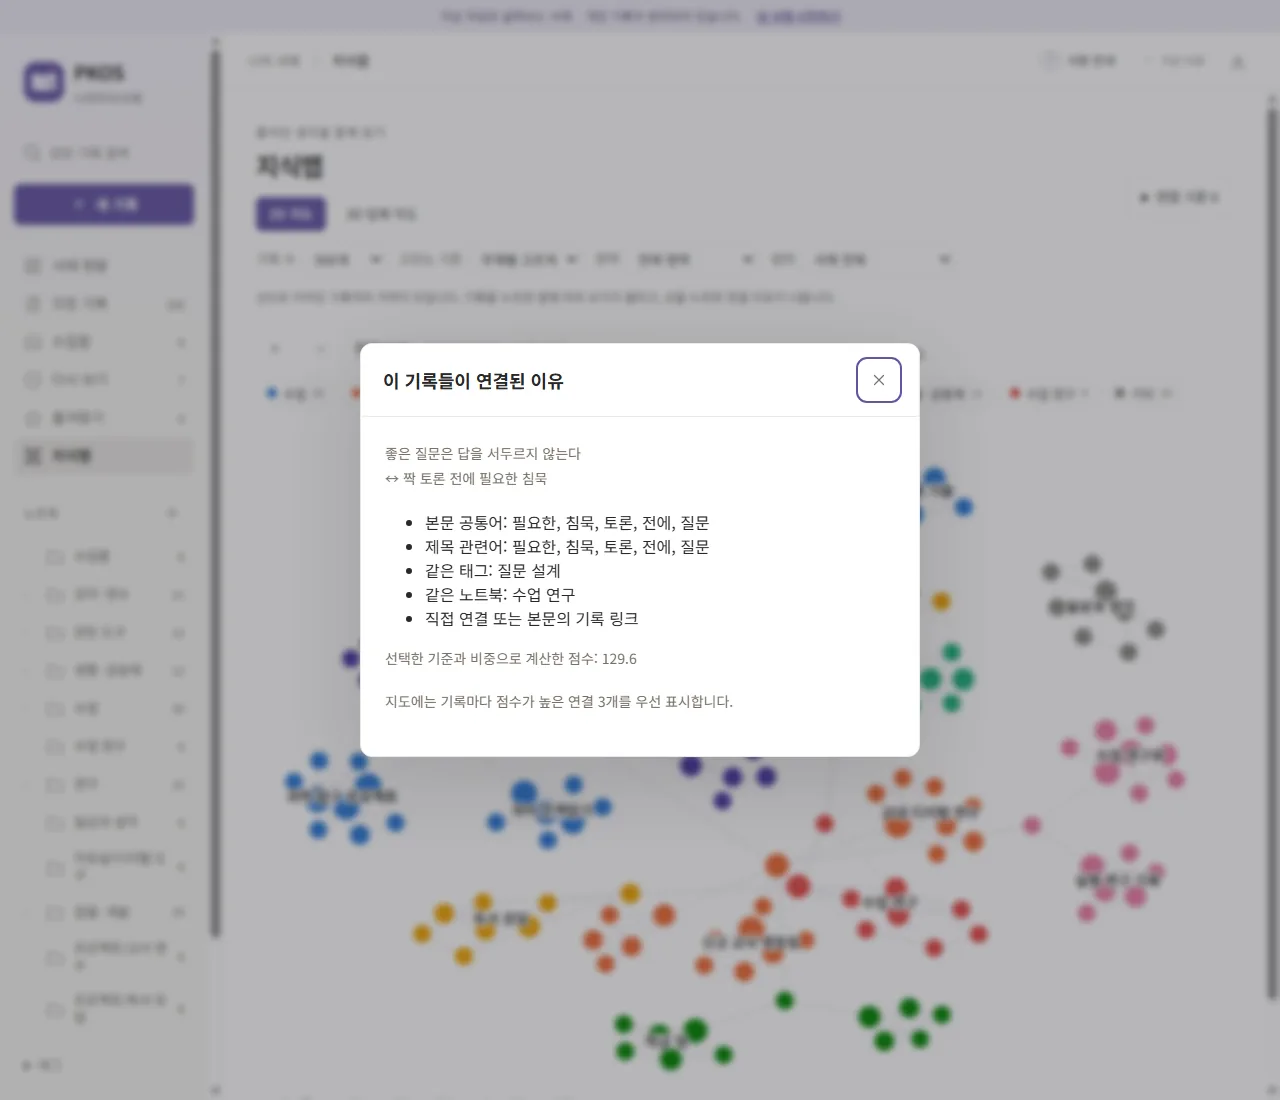
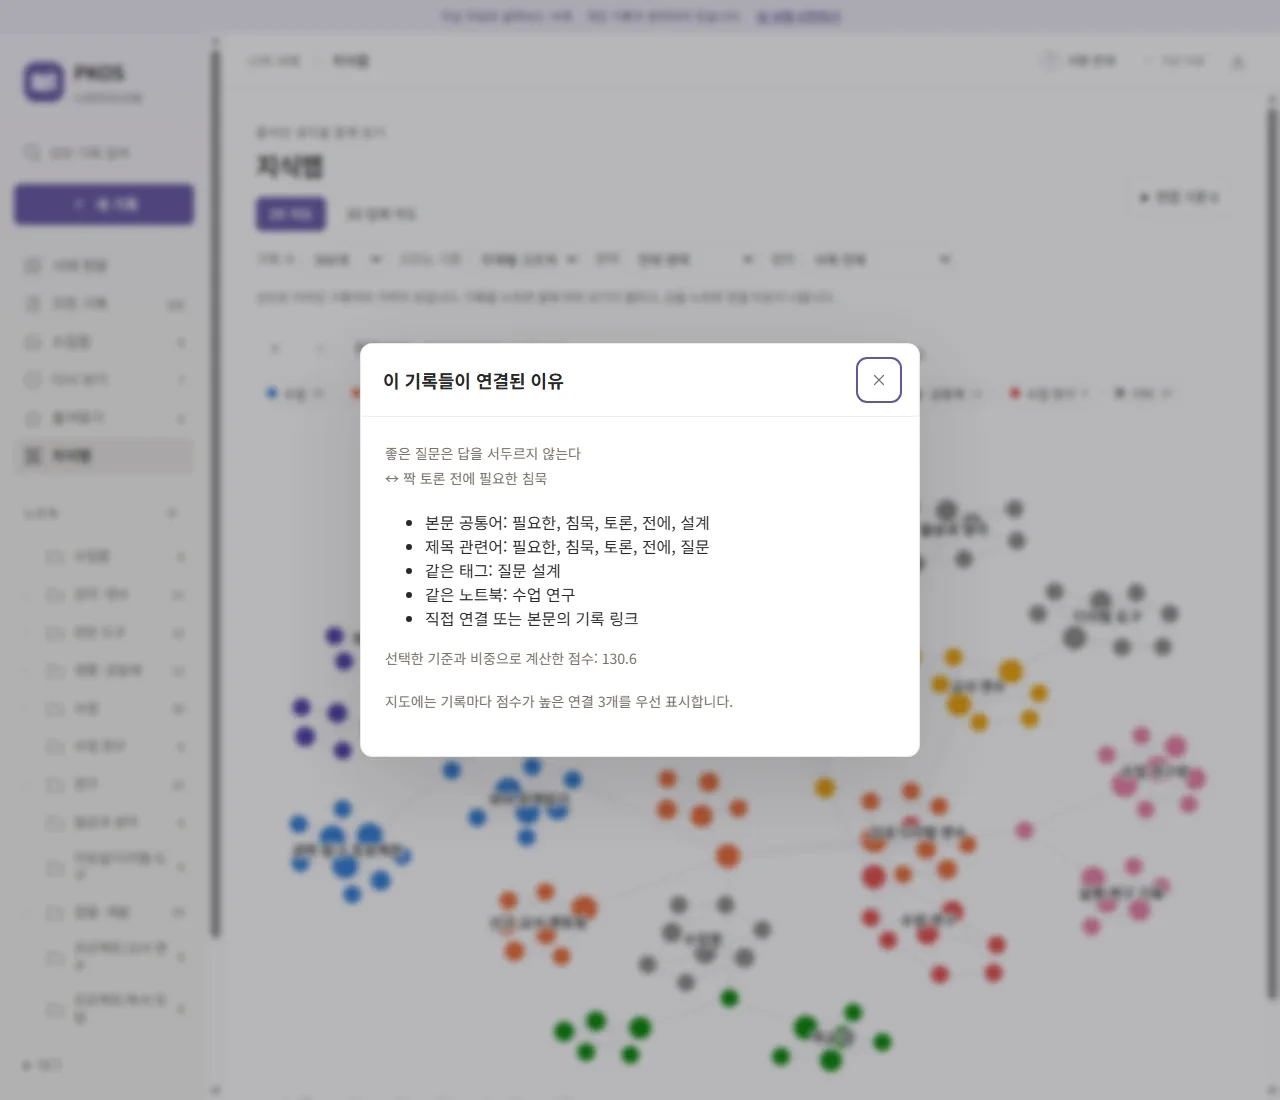
기록장 3차 정비에 맞춰 사진 7장과 기록 연결·태그 제안 문장

diff --git a/index.html b/index.html
@@ -160,9 +160,9 @@
       <div class="setupstep"><span class="stepn">1</span><div><h3>새 기록 쓰기</h3><p>왼쪽 「새 기록」을 누르고 제목에 <code>오늘 수업에서 남은 질문</code>을, 본문에는 아래 두 줄을 적습니다.</p></div></div>
       <div class="codebox"><div class="codehead"><span>본문에 적을 내용</span><button class="copy" type="button">복사</button></div><pre><code>모둠 토론 뒤에 "왜 그렇게 생각했니?"라고 물었더니 세 모둠이 근거를 다시 찾았다.
 다음 시간에는 근거 문장을 먼저 고르게 한다.</code></pre></div>
-      <div class="setupstep"><span class="stepn">2</span><div><h3>노트북과 태그 정하기</h3><p>「노트북 · 태그 · 다시 볼 날짜」를 펼쳐서 노트북은 「수업 연구」로 고르고, 태그 칸에는 <code>질문, 수업 성찰</code>을 적습니다. 태그는 쉼표로 나눕니다.</p></div></div>
+      <div class="setupstep"><span class="stepn">2</span><div><h3>노트북과 태그 정하기</h3><p>「노트북 · 태그 · 다시 볼 날짜」를 펼쳐서 노트북은 「수업 연구」로 고르고, 태그 칸에는 <code>질문, 수업 성찰</code>을 적습니다. 태그는 쉼표로 나눕니다. 태그 칸 아래에 이 글과 비슷한 기록에 붙은 태그가 제안되고, 누르면 태그 칸에 더해집니다.</p></div></div>
       <div class="setupstep"><span class="stepn">3</span><div><h3><code>/</code>로 서식 넣기</h3><p>본문 끝 새 줄에서 <code>/</code>를 치면 「기록에 넣기」 메뉴가 열리고 제목·굵게·목록·표 같은 서식을 고를 수 있습니다. Esc로 닫은 뒤 방금 친 <code>/</code>는 지웁니다.</p></div></div>
-      <div class="setupstep"><span class="stepn">4</span><div><h3>다른 기록과 잇기</h3><p>「다른 기록 연결」을 누르고 찾기 칸에 <code>질문</code>을 적습니다. 「좋은 질문은 답을 서두르지 않는다」에 표시한 다음 「연결 저장」을 누르면 됩니다.</p></div></div>
+      <div class="setupstep"><span class="stepn">4</span><div><h3>다른 기록과 잇기</h3><p>「다른 기록 연결」을 누르고 찾기 칸에 <code>질문</code>을 적습니다. 「좋은 질문은 답을 서두르지 않는다」에 표시한 다음 「연결 저장」을 누르면 됩니다. 찾기 칸을 비워 두면 지금 쓰는 글과 낱말이 겹치는 기록이 먼저 보입니다.</p></div></div>
       <div class="setupstep"><span class="stepn">5</span><div><h3>저장하고 읽기</h3><p>「저장」을 누르면 읽기 화면으로 바뀝니다. 「함께 읽을 기록」 맨 위에 "내가 연결한 기록"이 있습니다. 그 아래로 이어지는 기록은 서재에서 드물게 나오는 낱말이나 주제 태그가 겹쳐서 서재가 찾아 준 것이고, 줄마다 겹친 낱말이 적혀 있습니다.</p></div></div>
       <div class="photogrid">
         <figure><button class="photobutton" type="button"><img src="img/lib-editor.webp" alt="새 기록 편집 화면" data-number="02-1" loading="lazy"></button><figcaption><span class="photonum">사진 02-1</span>새 기록 편집 화면입니다. ① 제목, ② 본문, ③ 노트북·상태·태그·다시 볼 날짜, ④ 저장 단추입니다.</figcaption></figure>
@@ -482,7 +482,7 @@ python pkos.py --자가진단</code></pre></div>
         <li><time>2026.09.28</time><span>기록장을 다시 설계해 서버 없이 브라우저에 저장하는 나의지식서재를 열었습니다.</span></li>
         <li><time>2026.10.01</time><span>드라이브 자료 사본 7,203개를 카드 5,087장으로 넣어 직접 써 보면서 지식맵과 속도를 고쳤습니다.</span></li>
         <li><time>2026.10.02</time><span>사용 설명서와 실습 카드를 만들었습니다. 세 도구도 깃허브에서 가져갈 수 있게 정리했습니다.</span></li>
-        <li><time>2026.10.05</time><span>연수 뒤 기록장을 정비했습니다. 「서재 현황」과 조건 찾기를 넣고, 문서 카드 5,000장에 본문 앞부분을 채웠고(스캔한 PDF 193개는 Windows 글자 인식으로 따로 읽음), 카드 안 구글 드라이브 미리보기는 보기 전용으로 두었습니다. 자료변환기는 읽지 못하던 워드·PPT 일부와 .odt, XML로 저장한 한글 문서를 읽게 고쳤습니다. 이어서 「함께 읽을 기록」과 지식맵 연결을 드문 낱말 기준으로 바꾸고, 드라이브 여러 곳에 있는 같은 문서를 목록에서 한 줄로 묶고, 지도에서 점을 누르면 미리 보기가 열리게 했습니다.</span></li>
+        <li><time>2026.10.05</time><span>연수 뒤 기록장을 정비했습니다. 「서재 현황」과 조건 찾기를 넣고, 문서 카드 5,000장에 본문 앞부분을 채웠고(스캔한 PDF 193개는 Windows 글자 인식으로 따로 읽음), 카드 안 구글 드라이브 미리보기는 보기 전용으로 두었습니다. 자료변환기는 읽지 못하던 워드·PPT 일부와 .odt, XML로 저장한 한글 문서를 읽게 고쳤습니다. 이어서 「함께 읽을 기록」과 지식맵 연결을 드문 낱말 기준으로 바꾸고, 드라이브 여러 곳에 있는 같은 문서를 목록에서 한 줄로 묶고, 지도에서 점을 누르면 미리 보기가 열리게 했습니다. 기록 연결 창과 태그 칸은 지금 쓰는 글과 비슷한 기록과 그 태그를 먼저 보여 줍니다.</span></li>
       </ol>
       <h3>써 보며 고친 것</h3>
       <ul>
